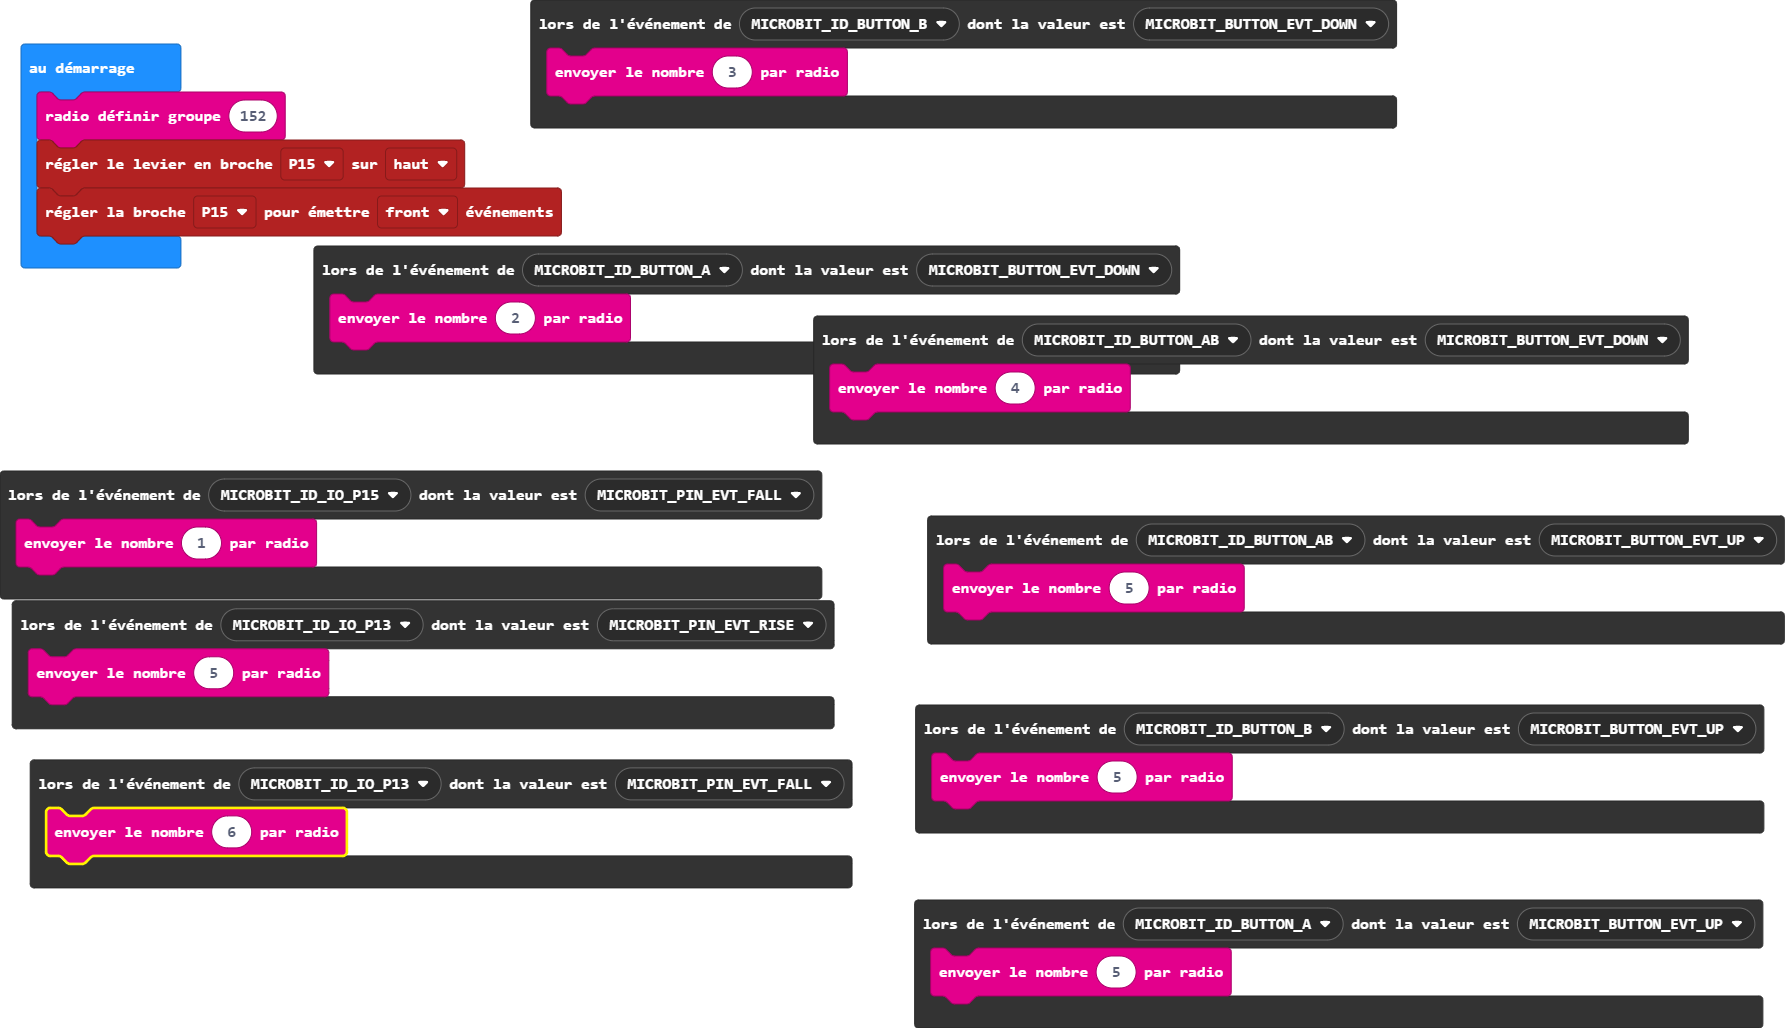
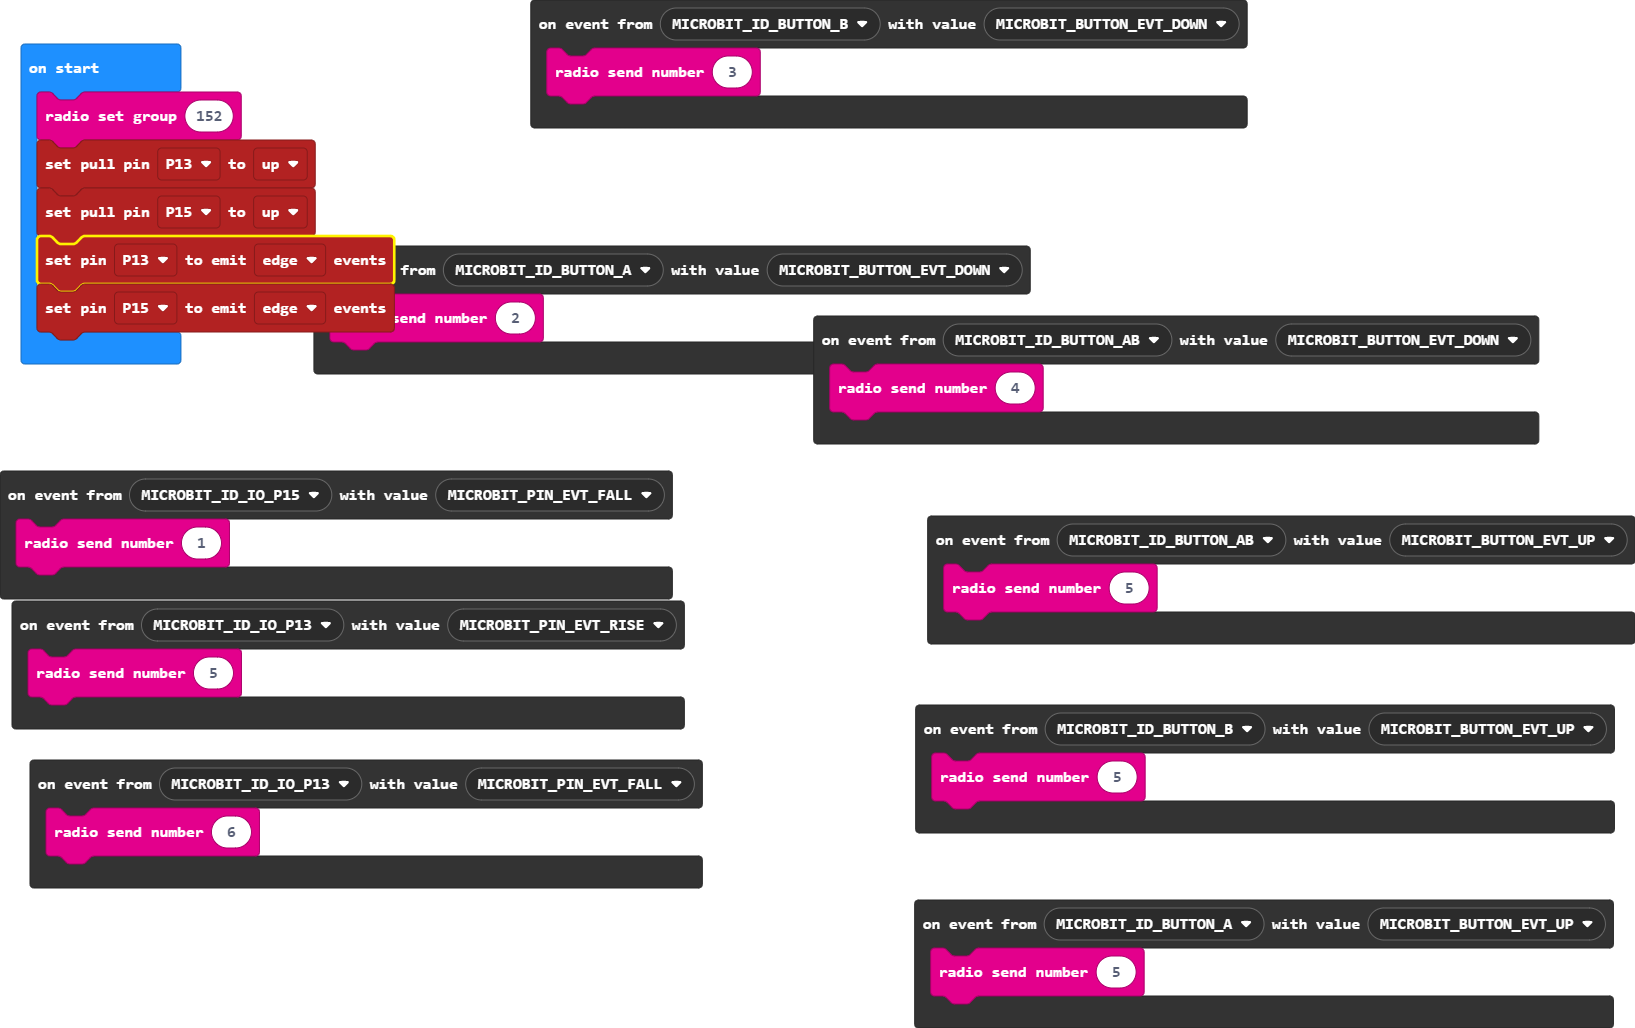
Update main.blocks, main.ts

diff --git a/main.ts b/main.ts
@@ -1,40 +1,32 @@
-function cacaspipicrottes(num: number) {
-    basic.showNumber(num)
-    basic.showNumber(num)
-}
-
-control.onEvent(EventBusSource.MICROBIT_ID_IO_P13, EventBusValue.MICROBIT_PIN_EVT_FALL, function on_microbit_id_io_p13_pin_evt_fall() {
-    cacaspipicrottes(6)
+control.onEvent(EventBusSource.MICROBIT_ID_IO_P13, EventBusValue.MICROBIT_PIN_EVT_FALL, function () {
+    radio.sendNumber(6)
 })
-control.onEvent(EventBusSource.MICROBIT_ID_BUTTON_A, EventBusValue.MICROBIT_BUTTON_EVT_UP, function on_microbit_id_button_a_evt_up() {
-    cacaspipicrottes(5)
+control.onEvent(EventBusSource.MICROBIT_ID_BUTTON_A, EventBusValue.MICROBIT_BUTTON_EVT_UP, function () {
+    radio.sendNumber(5)
 })
-control.onEvent(EventBusSource.MICROBIT_ID_BUTTON_AB, EventBusValue.MICROBIT_BUTTON_EVT_UP, function on_microbit_id_button_ab_evt_up() {
-    cacaspipicrottes(5)
+control.onEvent(EventBusSource.MICROBIT_ID_BUTTON_AB, EventBusValue.MICROBIT_BUTTON_EVT_UP, function () {
+    radio.sendNumber(5)
 })
-control.onEvent(EventBusSource.MICROBIT_ID_BUTTON_AB, EventBusValue.MICROBIT_BUTTON_EVT_DOWN, function on_microbit_id_button_ab_evt_down() {
-    cacaspipicrottes(4)
+control.onEvent(EventBusSource.MICROBIT_ID_BUTTON_AB, EventBusValue.MICROBIT_BUTTON_EVT_DOWN, function () {
+    radio.sendNumber(4)
 })
-control.onEvent(EventBusSource.MICROBIT_ID_IO_P13, EventBusValue.MICROBIT_PIN_EVT_RISE, function on_microbit_id_io_p13_pin_evt_rise() {
-    cacaspipicrottes(5)
+control.onEvent(EventBusSource.MICROBIT_ID_IO_P13, EventBusValue.MICROBIT_PIN_EVT_RISE, function () {
+    radio.sendNumber(5)
 })
-control.onEvent(EventBusSource.MICROBIT_ID_BUTTON_A, EventBusValue.MICROBIT_BUTTON_EVT_DOWN, function on_microbit_id_button_a_evt_down() {
-    cacaspipicrottes(2)
+control.onEvent(EventBusSource.MICROBIT_ID_BUTTON_A, EventBusValue.MICROBIT_BUTTON_EVT_DOWN, function () {
+    radio.sendNumber(2)
 })
-control.onEvent(EventBusSource.MICROBIT_ID_BUTTON_B, EventBusValue.MICROBIT_BUTTON_EVT_UP, function on_microbit_id_button_b_evt_up() {
-    cacaspipicrottes(5)
+control.onEvent(EventBusSource.MICROBIT_ID_BUTTON_B, EventBusValue.MICROBIT_BUTTON_EVT_UP, function () {
+    radio.sendNumber(5)
 })
-control.onEvent(EventBusSource.MICROBIT_ID_BUTTON_B, EventBusValue.MICROBIT_BUTTON_EVT_DOWN, function on_microbit_id_button_b_evt_down() {
-    cacaspipicrottes(3)
+control.onEvent(EventBusSource.MICROBIT_ID_BUTTON_B, EventBusValue.MICROBIT_BUTTON_EVT_DOWN, function () {
+    radio.sendNumber(3)
 })
-control.onEvent(EventBusSource.MICROBIT_ID_IO_P15, EventBusValue.MICROBIT_PIN_EVT_FALL, function on_microbit_id_io_p15_pin_evt_fall() {
-    cacaspipicrottes(4)
-})
-control.onEvent(EventBusSource.MICROBIT_ID_IO_P15, EventBusValue.MICROBIT_PIN_EVT_RISE, function on_microbit_id_io_p15_pin_evt_rise() {
-    cacaspipicrottes(5)
+control.onEvent(EventBusSource.MICROBIT_ID_IO_P15, EventBusValue.MICROBIT_PIN_EVT_FALL, function () {
+    radio.sendNumber(1)
 })
 radio.setGroup(152)
-pins.setPull(DigitalPin.P15, PinPullMode.PullUp)
 pins.setPull(DigitalPin.P13, PinPullMode.PullUp)
-pins.setEvents(DigitalPin.P15, PinEventType.Edge)
+pins.setPull(DigitalPin.P15, PinPullMode.PullUp)
 pins.setEvents(DigitalPin.P13, PinEventType.Edge)
+pins.setEvents(DigitalPin.P15, PinEventType.Edge)
